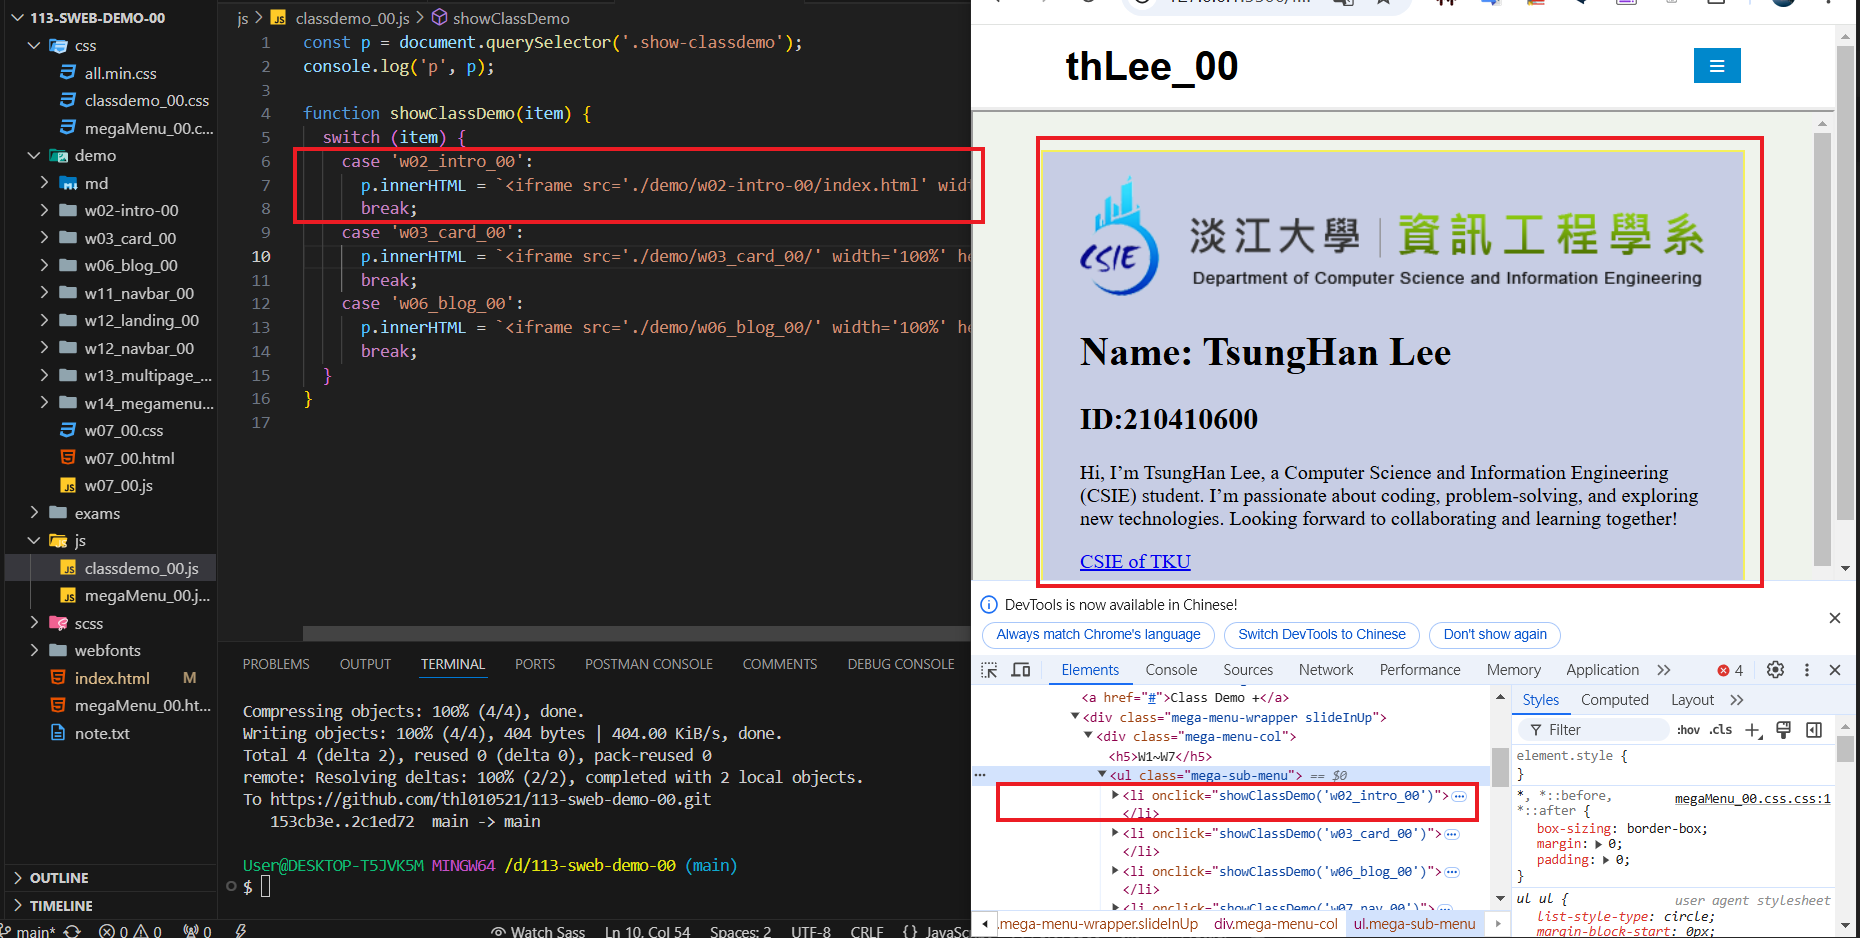
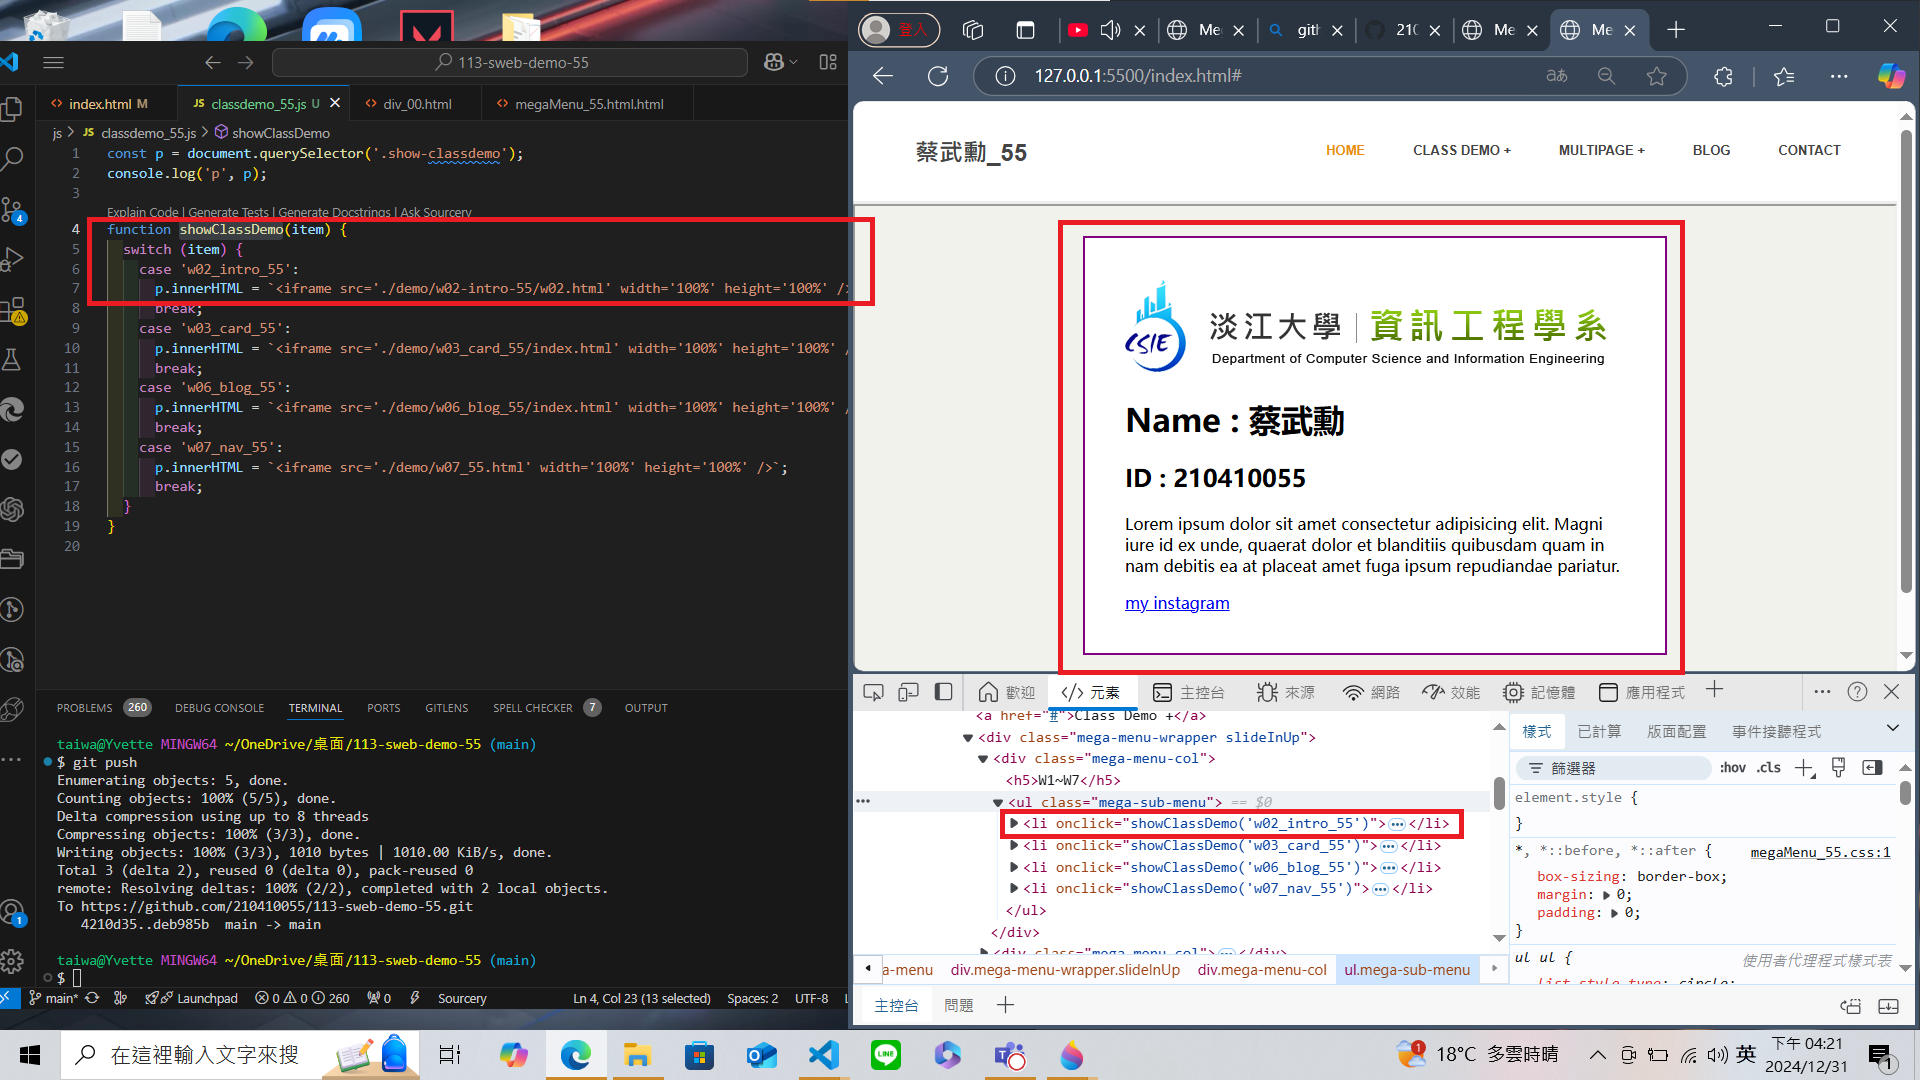
all

diff --git a/index.html b/index.html
@@ -13,6 +13,7 @@
     /> -->
     <link rel="stylesheet" href="./css/all.min.css">
     <link rel="stylesheet" href="./css/megaMenu_55.css" />
+    <link rel="stylesheet" href="./css/classdemo_55.css" />
     <title>Mega and Dropdown Menu</title>
   </head>
   <body>
@@ -28,16 +29,15 @@
             <li class="menu-item"><a href="#" class="active">Home</a></li>
 
             <li class="menu-item mega-menu">
-              <a href="#">Mega menu +</a>
+              <a href="#">Class Demo +</a>
               <div class="mega-menu-wrapper slideInUp">
                 <div class="mega-menu-col">
-                  <h5>Menu block 1</h5>
+                  <h5>W1~W7</h5>
                   <ul class="mega-sub-menu">
-                    <li><a href="#">Menu block item 1</a></li>
-                    <li><a href="#">Menu block item 2</a></li>
-                    <li><a href="#">Menu block item 3</a></li>
-                    <li><a href="#">Menu block item 4</a></li>
-                    <li><a href="#">Menu block item 5</a></li>
+                    <li onclick="showClassDemo('w02_intro_55')"><a href="#">w02_intro_55</a></li>
+                    <li onclick="showClassDemo('w03_card_55')"><a href="#">w03_card_55</a></li>
+                    <li onclick="showClassDemo('w06_blog_55')"><a href="#">w06_blog_55</a></li>
+                    <li onclick="showClassDemo('w07_nav_55')"><a href="#">w07_nav_55</a></li>
                   </ul>
                 </div>
                 <div class="mega-menu-col">
@@ -72,12 +72,11 @@
                 </div>
               </div>
             </li>
-
             <li class="menu-item dropdown">
-              <a href="#">Services +</a>
+              <a href="#">Multipage +</a>
               <div class="sub-menu-wrapper slideInUp">
                 <ul class="sub-menu">
-                  <li class="menu-item"><a href="#">Service 1</a></li>
+                  <li class="menu-item"><a href="./tictactoe_00.html">TicTacToe_00</a></li>
                   <li class="menu-item"><a href="#">Service 2</a></li>
                   <li class="menu-item"><a href="#">Service 3</a></li>
                   <li class="menu-item"><a href="#">Service 4</a></li>
@@ -102,16 +101,15 @@
             <li class="menu-item"><a href="#" class="active">Home</a></li>
 
             <li class="menu-item mega-menu">
-              <a href="#">Mega menu +</a>
-              <div class="mega-menu-wrapper">
+              <a href="#">Class Demo +</a>
+              <div class="mega-menu-wrapper slideInUp">
                 <div class="mega-menu-col">
-                  <h5>Menu block 1</h5>
+                  <h5>W1~W7</h5>
                   <ul class="mega-sub-menu">
-                    <li><a href="#">Menu block item 1</a></li>
-                    <li><a href="#">Menu block item 2</a></li>
-                    <li><a href="#">Menu block item 3</a></li>
-                    <li><a href="#">Menu block item 4</a></li>
-                    <li><a href="#">Menu block item 5</a></li>
+                    <li onclick="showClassDemo('w02_intro_55')"><a href="#">w02_intro_55</a></li>
+                    <li onclick="showClassDemo('w03_card_55')"><a href="#">w03_card_55</a></li>
+                    <li onclick="showClassDemo('w06_blog_55')"><a href="#">w06_blog_55</a></li>
+                    <li onclick="showClassDemo('w07_nav_55')"><a href="#">w07_nav_55</a></li>
                   </ul>
                 </div>
                 <div class="mega-menu-col">
@@ -165,12 +163,9 @@
       </div>
     </header>
 
-    <section class="hero">
-      <div class="container">
-        <h1>Awesome Mega Menu</h1>
-      </div>
-    </section>
+    <section class="show-classdemo"></section>
 
     <script src="./js/megaMenu_55.js"></script>
+    <script src="./js/classdemo_55.js"></script>
   </body>
 </html>

diff --git a/js/classdemo_55.js b/js/classdemo_55.js
@@ -1,0 +1,19 @@
+const p = document.querySelector('.show-classdemo');
+console.log('p', p);
+
+function showClassDemo(item) {
+  switch (item) {
+    case 'w02_intro_55':
+      p.innerHTML = `<iframe src='./demo/w02-intro-55/w02.html' width='100%' height='100%' />`;
+      break;
+    case 'w03_card_55':
+      p.innerHTML = `<iframe src='./demo/w03_card_55/index.html' width='100%' height='100%' />`;
+      break;
+    case 'w06_blog_55':
+      p.innerHTML = `<iframe src='./demo/w06_blog_55/index.html' width='100%' height='100%' />`;
+      break;
+    case 'w07_nav_55':
+      p.innerHTML = `<iframe src='./demo/w07_55.html' width='100%' height='100%' />`;
+      break;
+  }
+}
